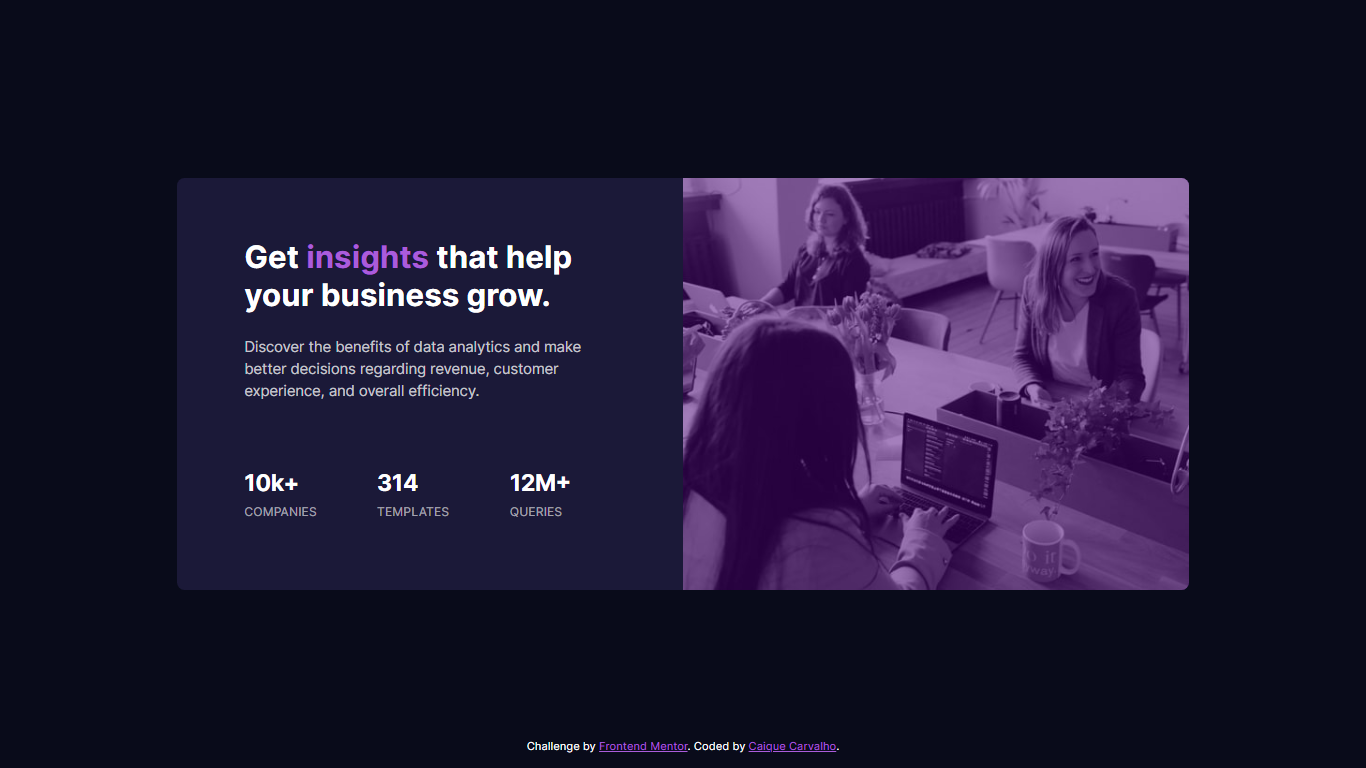
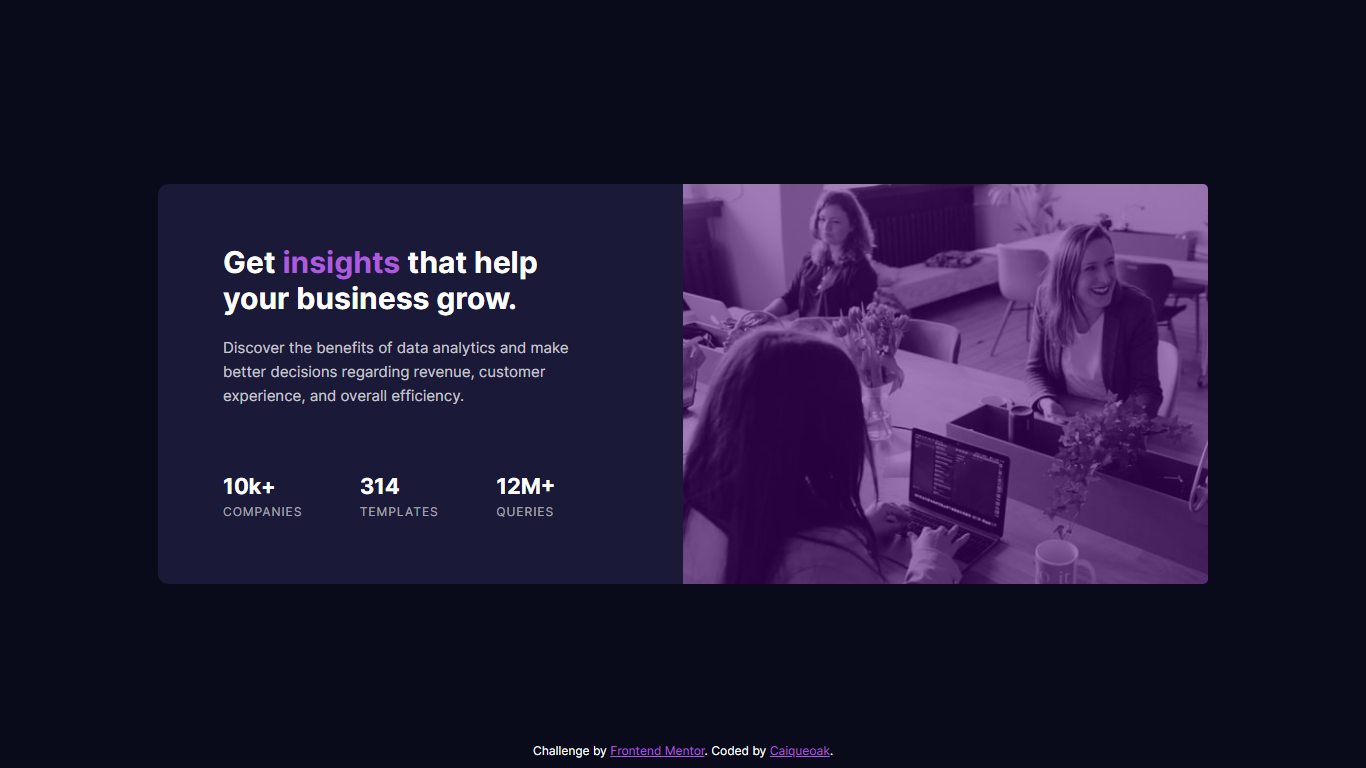
fixed the font family and implemented responsiveness to 375 mobile resolution

diff --git a/style.css b/style.css
@@ -5,10 +5,8 @@
     --main-heading-stats: hsl(0, 0%, 100%);
     --main-paragraph: hsla(0, 0%, 100%, 0.75);
     --stat-headings: hsla(0, 0%, 100%, 0.6);
-    --font-head-family: "Inter";
-    --font-content-family: "Lexend Deca";
-    --heading-weight: 700;
-    --content-weight: 400;
+    --font-head-family: 'Inter', sans-serif;
+    --font-content-family: 'Lexend Deca', sans-serif;
     font-size: 15px;
     box-sizing: border-box;
 }
@@ -29,9 +27,9 @@ body{
     display: flex;
     flex-direction: row-reverse;
     position: absolute;
-    border-radius: 5px;
+    border-radius: 10px;
     width: 1050px;
-    height: 410px;
+    height: 400px;
     background-color: var(--card-bg);
 }
 
@@ -45,8 +43,8 @@ body{
 }
 .head-text{
     padding-bottom: 5px;
-    font-size: 2.4rem;
-    font-weight: var(--heading-weight);
+    font-size: 2rem;
+    font-weight: 700;
     color: var(--main-heading-stats);
 }
 .head-text-highlighted{
@@ -58,20 +56,20 @@ body{
     padding-bottom: 50px;
     font-size: 1rem;
     line-height: 1.6rem;
-    font-weight: var(--content-weight);
+    font-weight: 400;
     color: var(--main-paragraph);
 }
 .stats{
     color: var(--main-heading-stats);
+    font-weight:700;
     display: grid;
     grid-template-columns: repeat(3, 1fr);
     column-gap: 30px;
-    font-weight: var(--heading-weight);
 }
 .stats-headings{
     color: var(--stat-headings);
     text-transform: uppercase;
-    font-weight: var(--content-weight);
+    font-weight: 400;
     font-size: 0.8rem;
     margin-top: 5px;
     letter-spacing: 1px;
@@ -115,7 +113,7 @@ body{
 }
 
 /* MOBILE VERSION */
-@media (max-width: 1055px){
+@media screen and (max-width: 1055px){
     *{
         text-align: center !important;
         margin: 0 !important;
@@ -124,19 +122,19 @@ body{
     }
     /* CARD CONTAINER */
     .card-container{
-        height: 975px;
+        height: 930px;
     }
     .card{
         flex-direction: column;
-        width: 85vw;
-        height: 860px;
-        max-width: 500px;
-        border-radius: 5px !important;
+        width: 90vw;
+        height: 790px;
+        max-width: 375px;
+        border-radius: 10px !important;
     }
     /* IMAGE CONTAINER */
     .image-wrapper{
         width: 100%;
-        height: 325px;
+        height: 240px;
         border-top-right-radius: 5px !important;
         border-top-left-radius: 5px !important;
     }
@@ -150,10 +148,13 @@ body{
     /* MAIN TEXT CONTAINER */
     .text{
         width: 100%;
-        padding: 35px 25px 0 !important;
+        padding: 35px 30px 0 !important;
     }
     .head-text{
         padding-bottom: 25px !important;
+    }
+    .main-paragraph{
+        padding: 0 10px !important;
     }
     .stats{
         display: grid;

diff --git a/index.html b/index.html
@@ -6,8 +6,9 @@
     <link rel="icon" type="image/png" sizes="32x32" href="./images/favicon-32x32.png">
     <title>Caique Carvalho</title>
     <link rel="stylesheet" href="style.css">
-    <link rel="stylesheet" href="https://fonts.google.com/specimen/Inter">
-    <Link rel="stylesheet" href="https://fonts.google.com/specimen/Lexend+Deca">
+    <link rel="preconnect" href="https://fonts.googleapis.com">
+    <link rel="preconnect" href="https://fonts.gstatic.com" crossorigin>
+    <link href="https://fonts.googleapis.com/css2?family=Inter:wght@400;700&family=Lexend+Deca&display=swap" rel="stylesheet">
   </head>
 
   <body>
@@ -50,7 +51,7 @@
           Challenge by 
           <a class="footer-text" href="https://www.frontendmentor.io?ref=challenge" target="_blank">Frontend Mentor</a>.
           Coded by 
-          <a class="footer-text"  href="https://github.com/Caiqueoak" target="_blank">Caique Carvalho</a>.
+          <a class="footer-text"  href="https://github.com/Caiqueoak" target="_blank">Caiqueoak</a>.
         </div>
       </div>
     </footer>
